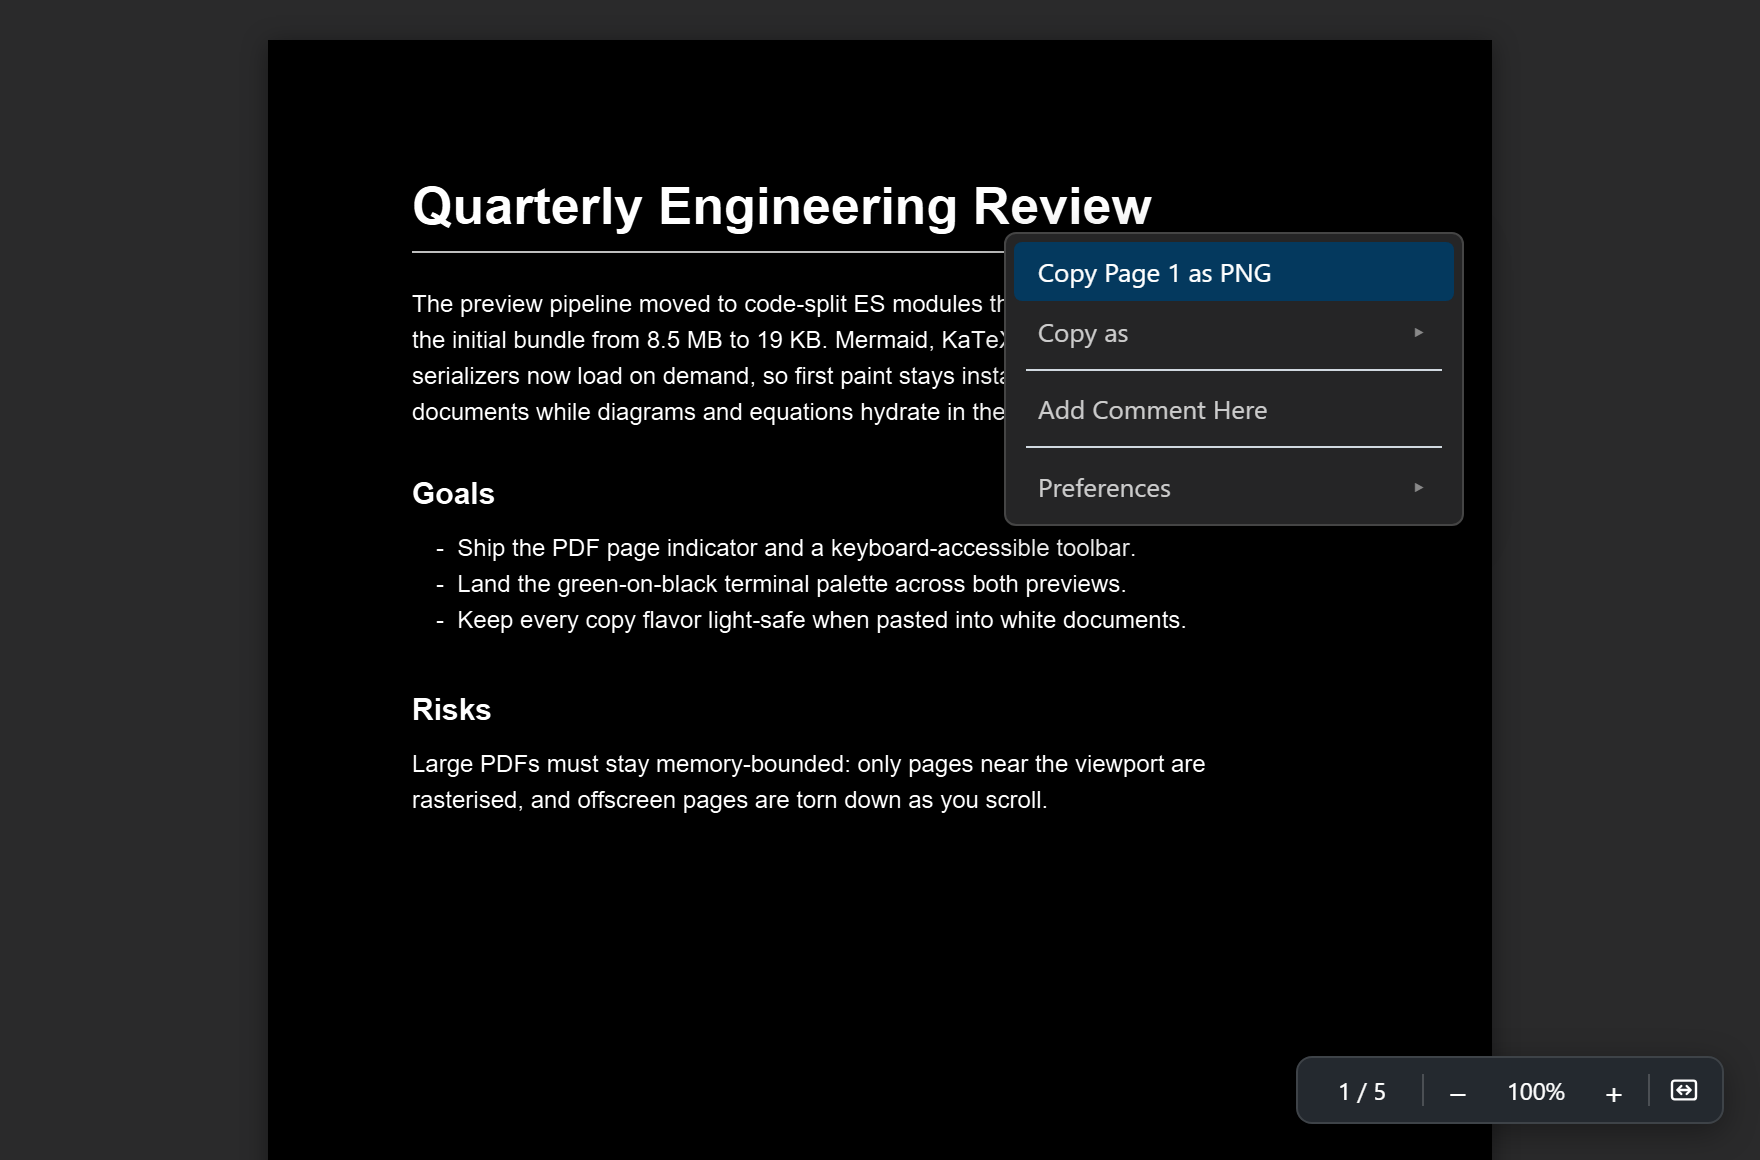
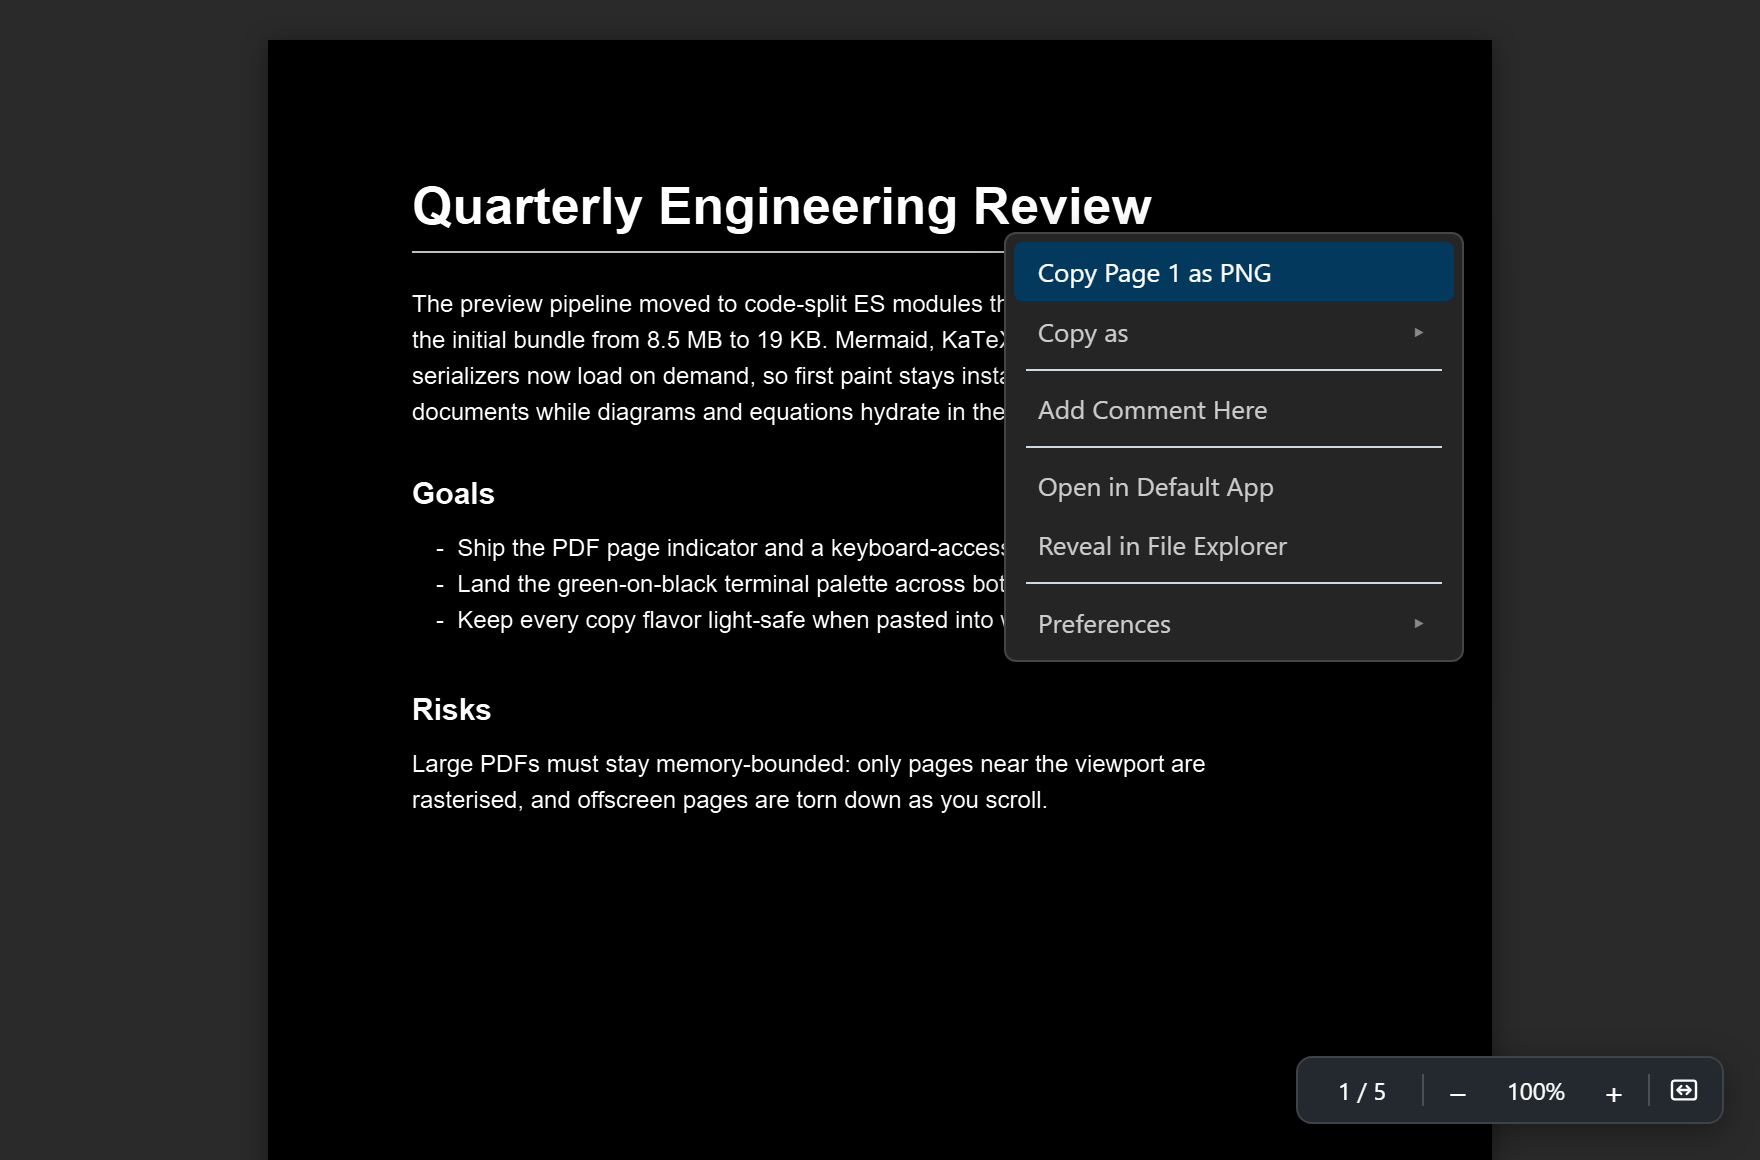
chore: release 1.4.0 (#220)
* chore: release 1.4.0

* docs: regenerate screenshots for 1.4.0, and send Word images in the screenshot harness

rendering-dark.png shows display math rendered through the new wrapping
path, and pdf-viewer.png the current context menu. The Word harness only
posted the render message, so the regenerated docx-preview.png lost its
picture; it now posts the media message the host sends, and the image
comes out identical to the committed one.

Changed region(s): [[0.5625, 0.4034, 0.8438, 0.5897]]

diff --git a/scripts/make-screenshot.js b/scripts/make-screenshot.js
@@ -338,9 +338,16 @@ function buildCsvHarness(theme) {
 // real webview bundle, in a card like the Markdown shots.
 // ---------------------------------------------------------------------------
 function buildDocxHarness(theme) {
+  const docx = renderDocxHtml(fs.readFileSync(path.join(root, 'sample.docx')));
+  // A picture's bytes follow the render in a `media` message, as the host sends
+  // them (src/ooxmlEditor.ts), keyed to the render's mediaSet. Without it every
+  // image in the sample shows as its alt text.
+  const mediaSet = 'screenshot-docx#1';
+  const media = { type: 'media', docKey: 'screenshot-docx', mediaSet, items: docx.media };
   const message = {
     type: 'render',
-    html: renderDocxHtml(fs.readFileSync(path.join(root, 'sample.docx'))).html,
+    html: docx.html,
+    mediaSet,
     source: '',
     kind: 'docx',
     styleProfile: 'github',
@@ -368,6 +375,7 @@ function buildDocxHarness(theme) {
   <script type="module" src="/media/webview.js"></script>
   <script type="module">
     window.postMessage(${JSON.stringify(message)}, '*');
+    window.postMessage(${JSON.stringify(media)}, '*');
   </script>
 </body></html>`;
 }

diff --git a/docs/ARCHITECTURE.md b/docs/ARCHITECTURE.md
@@ -184,7 +184,7 @@ The two surfaces drive each other, so every move one makes returns as a request 
 
 ### Local images
 
-`render.ts`'s `rewriteImageSrc` routes every rendered `<img>` through an optional `env.resolveImage(src)` hook; when no hook is supplied (plain unit tests, for instance) the `src` passes through unchanged. In the running extension, `extension.ts` supplies that hook: `preview-utils.ts`'s `localImageRef` classifies the `src` first, so remote (`http(s):`), `data:`, `blob:`, and already-resolved URIs are left alone while relative and absolute paths are flagged for resolution. `resolveImageSrc` then resolves a flagged path against the document's URI and turns it into a webview-safe URI with `webview.asWebviewUri`. For that URI to actually load, the webview's `localResourceRoots` must cover the target folder, so `resourceRoots()` widens it to the document's workspace folder (or its own directory, if it isn't inside a workspace), and `openPreview` re-applies `panel.webview.options` whenever the previewed document changes.
+`render.ts`'s `rewriteImageSrc` routes every Markdown image (`![](...)`) through an optional `env.resolveImage(src)` hook, and `rewriteHtmlImageSrc` does the same for an `<img>` written as raw HTML, which markdown-it passes through as `html_block` / `html_inline` tokens. That second path, `resolveHtmlImages`, runs synchronously on the extension host over untrusted text, so it is a single forward scan rather than a regular expression (a regex that could restart at every `<img` was quadratic, and 320 KB of `<img` text stalled the host for seconds): it skips comments and script/style bodies, reads each tag's attributes quote by quote so `src=` inside another value is text, decodes the value's character references once (numeric ones in full, named ones through markdown-it's entity table), and rewrites only the tag's first real `src`, keeping the original text when the resolver leaves it unchanged. For either path, when no hook is supplied (plain unit tests, for instance) the `src` passes through unchanged. In the running extension, `extension.ts` supplies that hook: `preview-utils.ts`'s `localImageRef` classifies the `src` first, so remote (`http(s):`), `data:`, `blob:`, and already-resolved URIs are left alone while relative and absolute paths are flagged for resolution. `resolveImageSrc` then resolves a flagged path against the document's URI and turns it into a webview-safe URI with `webview.asWebviewUri`. For that URI to actually load, the webview's `localResourceRoots` must cover the target folder, so `resourceRoots()` widens it to the document's workspace folder (or its own directory, if it isn't inside a workspace), and `openPreview` re-applies `panel.webview.options` whenever the previewed document changes.
 
 ### Footnotes
 
@@ -193,6 +193,8 @@ The two surfaces drive each other, so every move one makes returns as a request 
 ### Math (KaTeX)
 
 Math rendering mirrors how Mermaid diagrams are handled, so the same DOMPurify-adjacent path is reused rather than adding a second one. `render.ts` parses `$...$` and `$$...$$` with `markdown-it-texmath` (dollars delimiters, gated on `markcopy.math`) and emits inert placeholders instead of rendering KaTeX on the host: `<span class="mc-math" data-display="0">TeX</span>` for inline math and `<div class="mc-math" data-display="1" data-source-line="N">TeX</div>` for display math, with the raw TeX also stashed in `data-tex` for the copy actions. The webview's `renderKatex()` (in `src/webview/main.ts`) finds every `.mc-math` placeholder **after** DOMPurify has already sanitized the rendered HTML and calls `katex.render()` on its stored TeX, exactly mirroring the Mermaid placeholder-then-upgrade pattern. Keeping KaTeX's own markup out of the sanitizer path avoids DOMPurify stripping or fighting KaTeX's generated `<span>` soup. Mermaid's output, by contrast, does get its own DOMPurify pass (`diagramHtml()` in `src/webview/diagramHtml.ts`) before it is written into the diagram's host element, configured to keep the `foreignObject` labels Mermaid draws as HTML.
+
+KaTeX never breaks a line in display mode, so `renderKatex()` first renders a display equation in inline mode with a `\displaystyle` prefix (not wrapped in braces, since a group is one unbreakable atom). That keeps display size and limits but lets the browser break after a top-level relation or operator, so a long equation wraps to the pane; the element gets `mc-math-wrap`, which `preview.css` lays out as a centred block. The attempt uses `throwOnError: true`, so anything inline mode refuses (`\tag`, display-only environments such as `align`, or a mistake) falls back to the true display render, which reports errors as before; both kinds scroll in their own box as a last resort when they still do not fit.
 
 Right-clicking an equation offers top-level **Copy Equation** (PNG, via `html-to-image`, reusing the existing `copyPng` path) and **Copy as > LaTeX** (rewraps the `data-tex` value in `$...$` or `$$...$$` depending on `data-display`). The "Markdown" row under Copy as, for either a selection or a block, also restores the original LaTeX for any equation in scope via a Turndown rule, instead of serializing the rendered KaTeX markup.
 

diff --git a/docs/guide/settings.md b/docs/guide/settings.md
@@ -51,6 +51,7 @@ Every command and setting, and how to change them without leaving the preview.
 | `markcopy.stl.meshColor`       | string                                                                     | `#8ab4f8`      | Color of the mesh material in the STL preview.                                                                                                                                                                                                                                                                                                                                                                                                                                     |
 | `markcopy.video.autoplay`      | boolean                                                                    | `false`        | Start playing as soon as a video preview opens. Tries to play with sound; if VS Code requires a click first, it starts muted and the first click or key press in the preview turns the sound on. Also toggled from the right-click Playback menu.                                                                                                                                                                                                                                  |
 | `markcopy.video.loop`          | boolean                                                                    | `false`        | Repeat a video when it reaches the end. Also toggled from the preview's right-click **Playback** menu.                                                                                                                                                                                                                                                                                                                                                                             |
+| `markcopy.video.volume`        | integer, 0 to 100                                                          | `100`          | Playback volume for video previews, as a percentage. Remembered from whichever control set it last: the volume slider beside the play button, the right-click **Volume** menu, the mouse wheel over the picture or speaker, or the Up and Down keys. Muting is not saved.                                                                                                                                                                                                          |
 | `markcopy.audio.autoplay`      | boolean                                                                    | `false`        | Start playing as soon as an audio preview opens. If VS Code requires a click first, the file stays paused until you press Play.                                                                                                                                                                                                                                                                                                                                                    |
 | `markcopy.audio.showTags`      | boolean                                                                    | `false`        | Show the file's tags (title, artist, album...) in the audio viewer's details panel. Also toggled from the viewer's right-click **View > Show Tags**.                                                                                                                                                                                                                                                                                                                               |
 | `markcopy.audio.loop`          | boolean                                                                    | `false`        | Repeat an audio file when it reaches the end. Also toggled from the right-click **Playback** menu.                                                                                                                                                                                                                                                                                                                                                                                 |

diff --git a/CHANGELOG.md b/CHANGELOG.md
@@ -4,6 +4,13 @@ All notable changes to MarkCopy are documented here. The format follows [Keep a 
 
 ## [Unreleased]
 
+### Planned
+
+- PlantUML support.
+- An email-safe export profile (table-based layout, fully inlined).
+
+## [1.4.0] - 2026-11-11
+
 ### Added
 
 - **Video volume controls.** The video preview now has its own control bar instead of the browser's: play and pause, a speaker button with a volume slider beside it (the icon shows muted, low or high), the time, a seek bar, and full screen, which fills the whole page so the bar stays usable. The browser's picture-in-picture and download entries are not offered. Under a light VS Code theme in Auto, the bar and readout are drawn light on the player's dark surround, so they stay readable. Right-click a video for a **Volume** submenu with the current level, Mute, and 100%, 75%, 50% and 25%. The mouse wheel over the picture or the speaker changes the volume 5% a notch, and **Up** and **Down** step it 10%; **Left** and **Right** seek 5 seconds. In review mode the speaker and slider sit beside the notes transport's play button. The level is remembered for the next video in the new `markcopy.video.volume` setting (0 to 100, default 100), whichever control set it; muting is not saved.
@@ -15,11 +22,6 @@ All notable changes to MarkCopy are documented here. The format follows [Keep a 
 - **Images keep their shape in a narrow pane.** An HTML image that gives both a width and a height was squashed when the pane was narrower than it; it now scales down in proportion.
 - **Long display equations wrap.** A `$$...$$` equation wider than the pane now breaks onto further lines after an `=`, `+` or similar operator, at full display size, instead of running off the edge and pushing the page sideways. An equation with nowhere to break, or one that needs KaTeX's display mode (`	ag`, `align`), scrolls inside its own box instead.
 - **Narrow panes get more room.** Below about 520 px the preview's side margins shrink from 40 px to 16 px, so a split pane has space for its content.
-
-### Planned
-
-- PlantUML support.
-- An email-safe export profile (table-based layout, fully inlined).
 
 ## [1.3.1] - 2026-11-09
 
@@ -613,7 +615,8 @@ Initial release.
 - GitHub and VS Code style profiles (`markcopy.styleProfile`) and a scroll-sync toggle (`markcopy.syncScroll`).
 - Mermaid diagrams and highlight.js syntax highlighting.
 
-[Unreleased]: https://github.com/owenpkent/markcopy/compare/v1.3.1...HEAD
+[Unreleased]: https://github.com/owenpkent/markcopy/compare/v1.4.0...HEAD
+[1.4.0]: https://github.com/owenpkent/markcopy/compare/v1.3.1...v1.4.0
 [1.3.1]: https://github.com/owenpkent/markcopy/compare/v1.3.0...v1.3.1
 [1.3.0]: https://github.com/owenpkent/markcopy/compare/v1.2.0...v1.3.0
 [1.2.0]: https://github.com/owenpkent/markcopy/compare/v1.1.0...v1.2.0

diff --git a/README.md b/README.md
@@ -35,7 +35,7 @@ Then open a Markdown or CSV file: its tab shows the rendered preview, and **Show
 | PDF             | `.pdf`                                                           | Selectable text, pinned comments, copy a page as PNG                                                                                                                                 |
 | LaTeX           | `.tex`, `.ltx`, `.latex`                                         | Compiled with your installed TeX engine and shown in the PDF viewer                                                                                                                  |
 | Images and GIFs | `.png`, `.jpg`, `.webp`, `.avif`, `.bmp`, `.ico`, `.svg`, `.gif` | Copy as PNG, Markdown, or HTML; step through a folder; pin notes to areas of a picture; pause a GIF and step through its frames                                                      |
-| Video           | `.mov`, `.mp4`, `.mkv`, `.webm`, and more                        | Plays inline; timecoded video notes; copy the current frame as PNG for a bug report                                                                                                  |
+| Video           | `.mov`, `.mp4`, `.mkv`, `.webm`, and more                        | Plays inline with its own controls (play, volume slider, seek, full screen); timecoded video notes; copy the current frame as PNG for a bug report                                   |
 | Audio           | `.mp3`, `.wav`, `.ogg`, `.opus`, `.flac`, `.m4a`, `.aac`         | Plays inline with a click-to-seek waveform, a details panel (codec, levels, tags), speed control and keyboard shortcuts; timestamped notes; step through the audio files in a folder |
 | STL             | `.stl`                                                           | 3D viewer with orbit, wireframe, and dimensions                                                                                                                                      |
 
